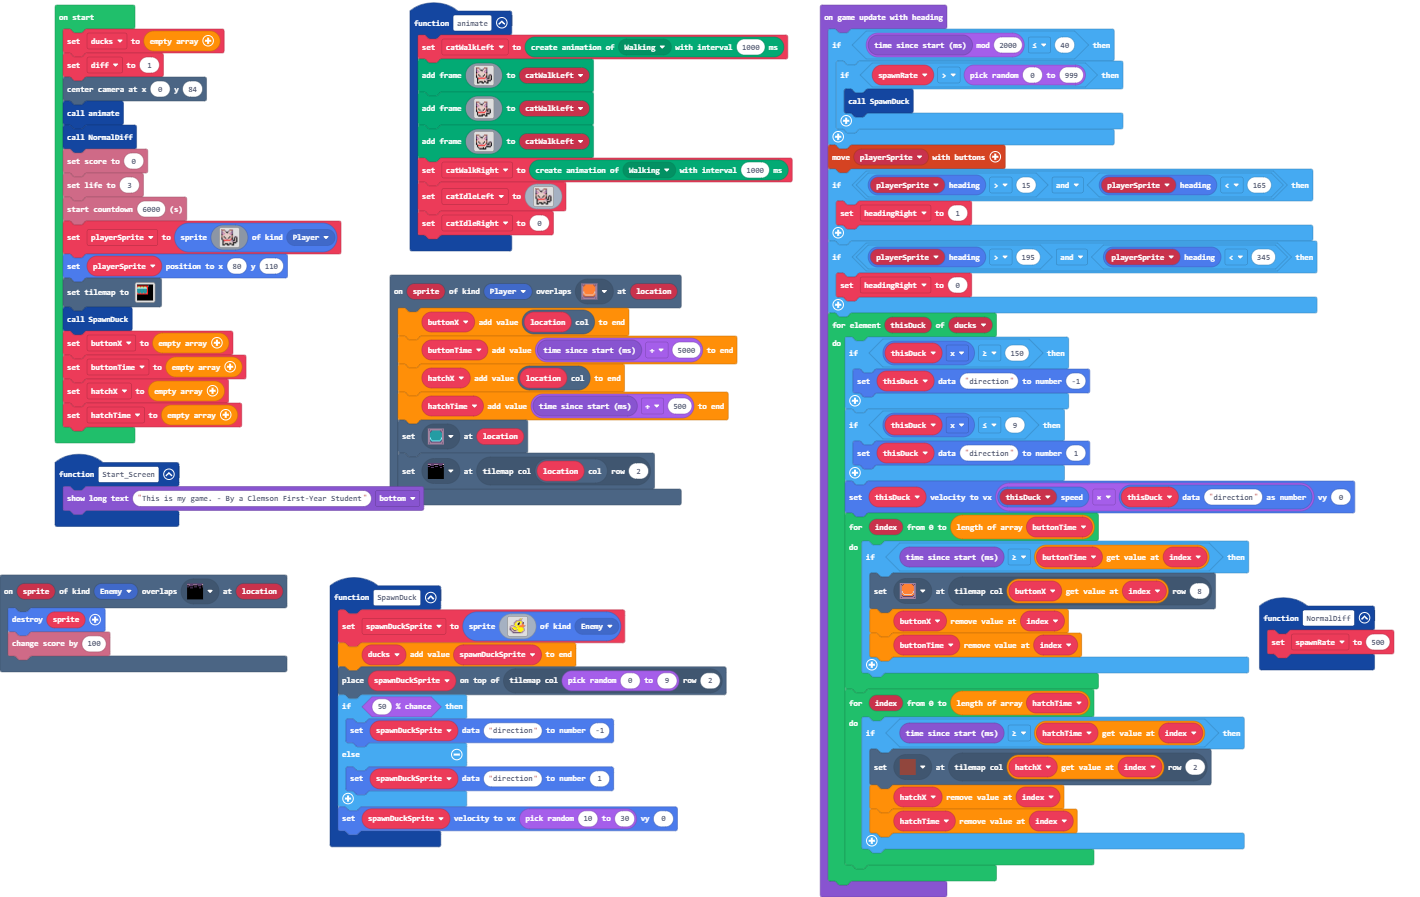
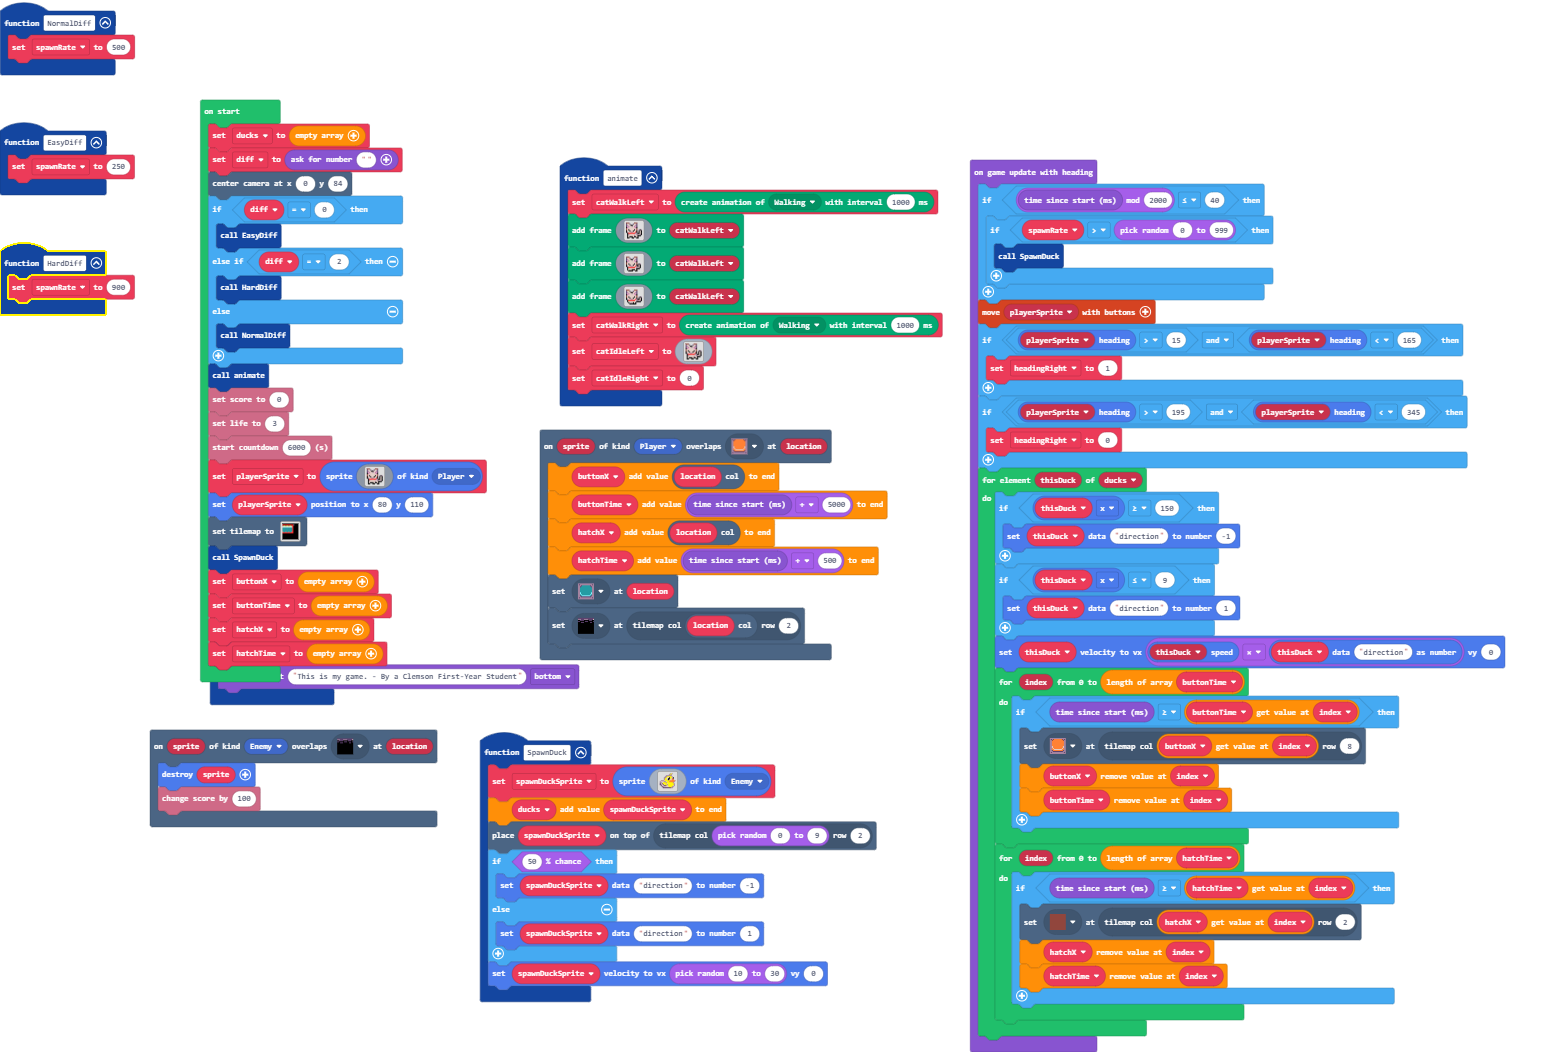
Dificulty

diff --git a/main.ts b/main.ts
@@ -72,6 +72,9 @@ function animate () {
         `
     catIdleRight = 0
 }
+function HardDiff () {
+    spawnRate = 900
+}
 game.onGameUpdateWithHeading(function () {
     if (Math.mod(game.runtime(), 2000) <= 40) {
         if (spawnRate > randint(0, 999)) {
@@ -109,6 +112,9 @@ game.onGameUpdateWithHeading(function () {
         }
     }
 })
+function EasyDiff () {
+    spawnRate = 250
+}
 function SpawnDuck () {
     spawnDuckSprite = sprites.create(img`
         . . . . . . . . . . b 5 b . . . 
@@ -169,10 +175,16 @@ let buttonX: number[] = []
 let playerSprite: Sprite = null
 let ducks: Sprite[] = []
 ducks = []
-let diff = 1
+let diff = game.askForNumber("")
 scene.centerCameraAt(0, 84)
+if (diff == 0) {
+    EasyDiff()
+} else if (diff == 2) {
+    HardDiff()
+} else {
+    NormalDiff()
+}
 animate()
-NormalDiff()
 info.setScore(0)
 info.setLife(3)
 info.startCountdown(6000)
